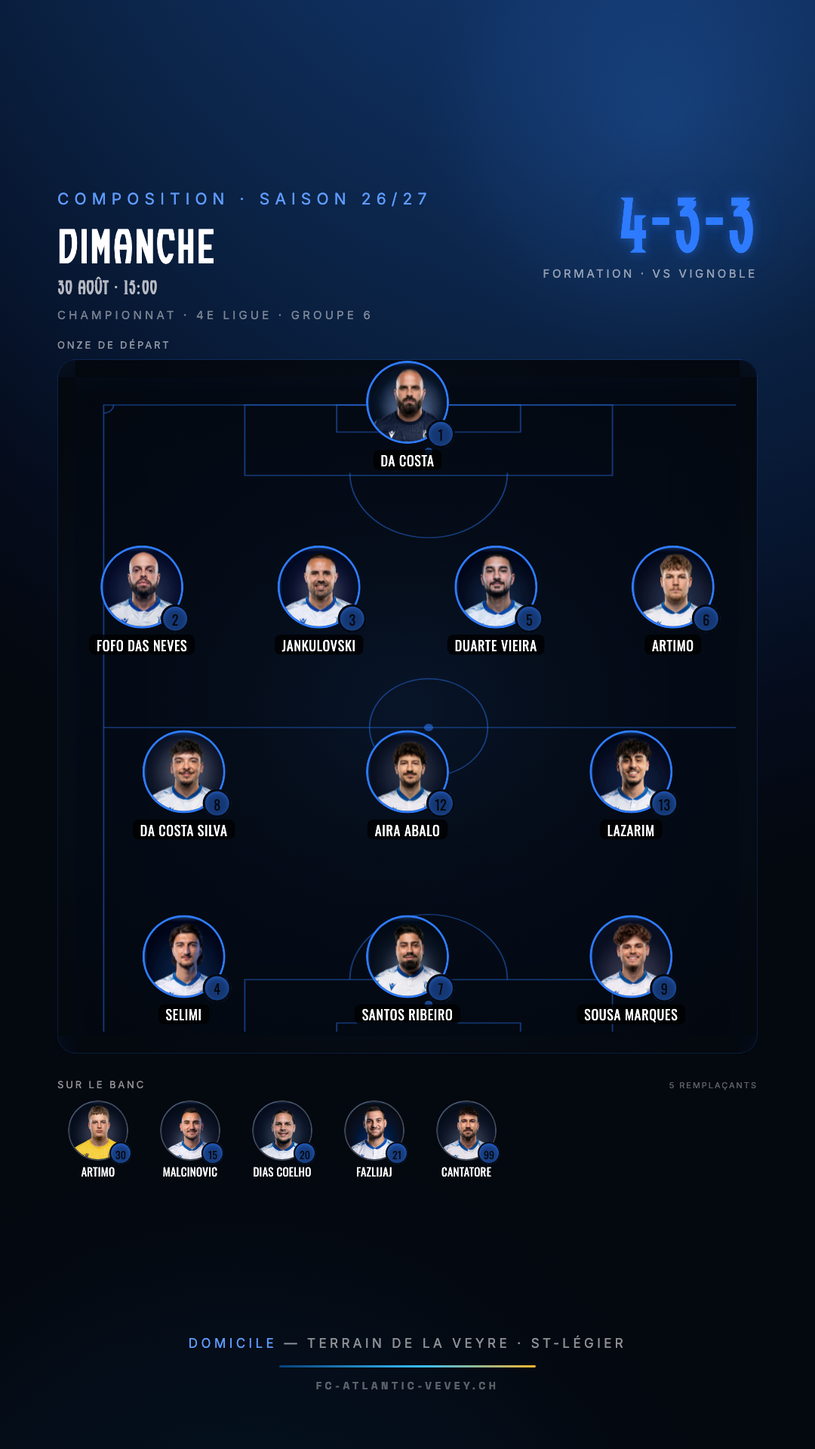
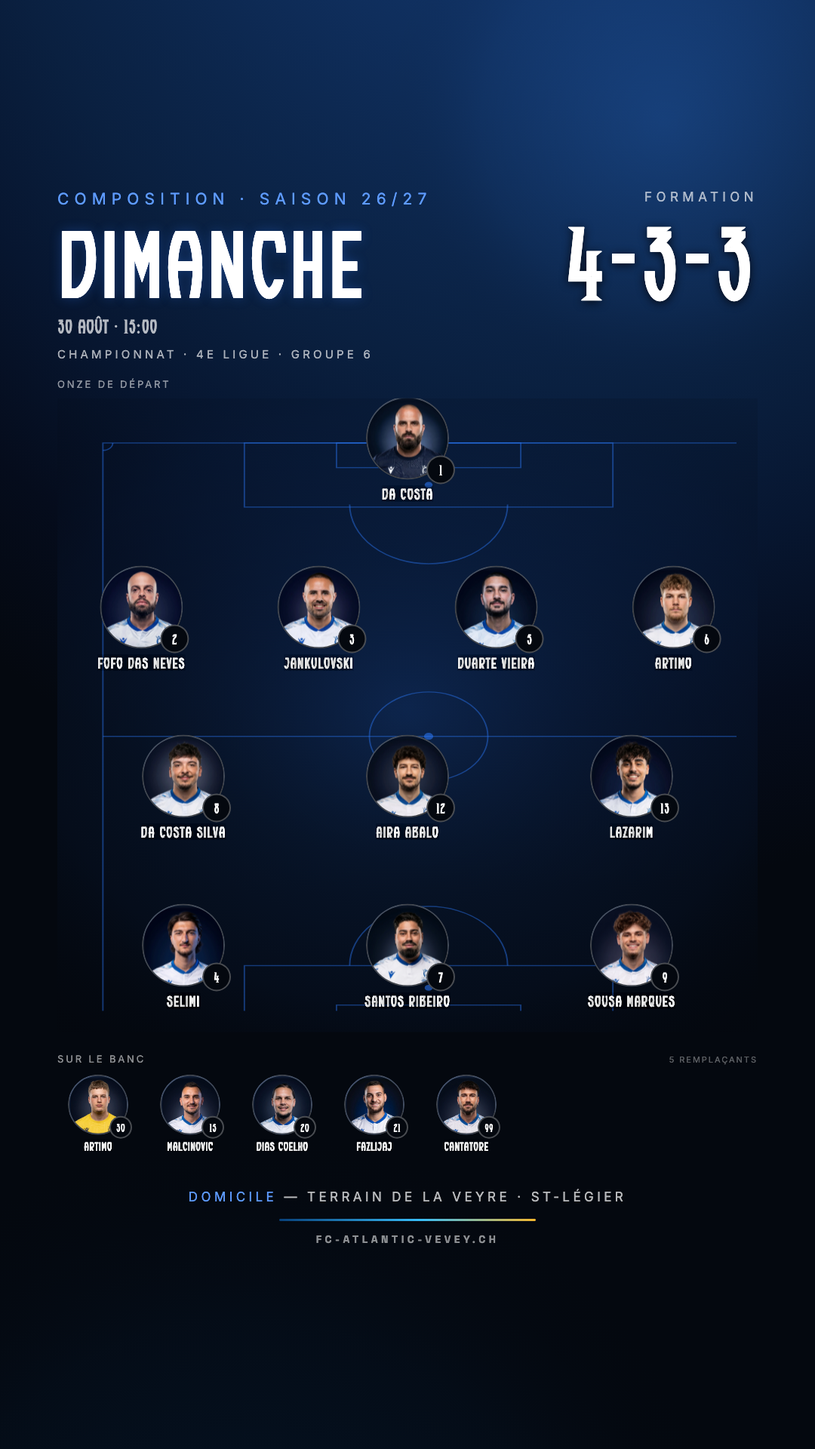
design: corrections du panel DA (4 juges indépendants, 84 défauts → 12 retenus)
Grille verrouillée, contrastes mesurés, safe zones respectées.

- HEADER : FB.colDroite() — micro-label droit sur la MÊME ligne de base que
  le kicker (57px d'écart avant) ; rampe de titre FIXE 156/126px (le même
  mot faisait 121px ici et 47px sur le lineup).
- CONTRASTE : bleu roi #2E7BFF tombait à 3.6:1 sur nuit → FB.royal passe à
  #5E9BFF pour le TEXTE ; ligne compétition .45→.66 ; URL .35→.55 ; rail
  .32→.5 ; venue .55→.72. Mesuré après coup : 7.5 à 12.4:1 partout.
  Les glows de la même teinte que le texte sont supprimés.
- SAFE ZONE : le pied tombait à y1744 (masqué par l'UI Instagram) et sautait
  de 183px selon la variante → ancres fixes, dernier pixel ≤1646 sur les 8.
- OR : la minute était blanche en live et or en mi-temps — même objet, deux
  codes. L'or est rendu à sa réserve (but, parrains, TBD, victoire).
- BUT : header conforme au système (kicker + BUT ! à gauche, minute à
  droite) ; le nom du buteur ne se pose plus sur le col clair.
- LINEUP : la tuile terrain bordée, les pastilles noires des noms et les
  anneaux bleus violaient « zéro chrome » → lignes nues, noms ombrés,
  hairline neutre (or pour le seul capitaine), numéros en flocage.
- ÉCUSSONS : un seul diamètre (92px) pour le même objet.
- EXPORT : le lineq est toujours rendu en 9:16 — son fichier ne se nomme
  plus « post » (il aurait menti sur son format).

diff --git a/index.html b/index.html
@@ -1354,7 +1354,10 @@
      Briques UNIQUES partagées par toutes les variantes photo-led. Grille
      story 1080×1920 fixe ; en post 4:5 le shell scale le canvas virtuel. */
   const FB = {
-    royal: '#2E7BFF',
+    /* Bleu roi du maillot : garde-corps de marque. Sur fond nuit il tombe à
+       3.6:1 → pour du TEXTE on utilise sa version claire (≈6:1). */
+    royal: '#5E9BFF',
+    royalDeep: '#2E7BFF',
     /* Largeur du canvas de composition : 1080 en story, plus large en post
        (canvas virtuel scalé). Posée par shellWrap avant chaque rendu. */
     vw: 1080,
@@ -1383,17 +1386,28 @@
     kicker(txt, y = 238) {
       return `<div style="position:absolute; left:72px; top:${y}px; font-family:'Inter', sans-serif; font-weight:700; font-size:21px; letter-spacing:0.34em; text-transform:uppercase; color:#5E9BFF;">${txt}</div>`;
     },
-    titre(txt, size = 168, y = 282, color = '#FFFFFF') {
-      return `<div style="position:absolute; left:72px; top:${y}px; font-family:'Portugal2025', 'Oswald', sans-serif; font-size:${size}px; line-height:0.95; letter-spacing:0.015em; text-transform:uppercase; color:${color}; text-shadow:0 0 30px rgba(46,123,255,0.35); white-space:nowrap;">${txt}</div>`;
+    /* Rampe de tailles FIXE : un titre long descend d'un cran, jamais de
+       valeur arbitraire. Ligne de base identique sur les 7 variantes. */
+    titre(txt, size, y = 282, color = '#FFFFFF') {
+      const auto = String(txt).replace(/<[^>]*>/g, '').length > 10 ? 126 : 156;
+      return `<div style="position:absolute; left:72px; top:${y}px; font-family:'Portugal2025', 'Oswald', sans-serif; font-size:${size || auto}px; line-height:0.95; letter-spacing:0.015em; text-transform:uppercase; color:${color}; text-shadow:0 0 16px rgba(46,123,255,0.28); white-space:nowrap;">${txt}</div>`;
+    },
+    /* Colonne droite du header : micro-label sur la MÊME ligne de base que
+       le kicker gauche (y238), grand chiffre ancré à y286. */
+    colDroite(label, chiffreHtml) {
+      return `<div style="position:absolute; right:72px; top:238px; text-align:right;">
+        <div style="font-family:'Inter', sans-serif; font-weight:700; font-size:17px; letter-spacing:0.32em; text-transform:uppercase; color:rgba(255,255,255,0.66); margin-bottom:16px;">${label}</div>
+        ${chiffreHtml}
+      </div>`;
     },
     sub(txt, y, size = 58) {
       return `<div style="position:absolute; left:74px; top:${y}px; font-family:'Portugal2025', 'Oswald', sans-serif; font-size:${size}px; letter-spacing:0.05em; text-transform:uppercase; color:rgba(255,255,255,0.82);">${txt}</div>`;
     },
     compline(y) {
-      return `<div style="position:absolute; left:75px; top:${y}px; font-family:'Inter', sans-serif; font-weight:600; font-size:16px; letter-spacing:0.3em; text-transform:uppercase; color:rgba(255,255,255,0.45);">${compKicker()} · ${compLabel()}${state.matchNumber ? ` · N° ${state.matchNumber}` : ''}</div>`;
+      return `<div style="position:absolute; left:75px; top:${y}px; font-family:'Inter', sans-serif; font-weight:600; font-size:16px; letter-spacing:0.3em; text-transform:uppercase; color:rgba(255,255,255,0.66);">${compKicker()} · ${compLabel()}${state.matchNumber ? ` · N° ${state.matchNumber}` : ''}</div>`;
     },
     chiffre(txt, size, color) {
-      return `<div style="font-family:'Portugal2025 Outlined', 'Portugal2025', 'Oswald', sans-serif; font-size:${size}px; line-height:0.88; letter-spacing:0.03em; color:${color}; text-shadow:0 0 14px ${color}77, 0 0 46px ${color}33;">${txt}</div>`;
+      return `<div style="font-family:'Portugal2025 Outlined', 'Portugal2025', 'Oswald', sans-serif; font-size:${size}px; line-height:0.88; letter-spacing:0.03em; color:${color}; text-shadow:0 2px 12px rgba(4,8,15,0.9);">${txt}</div>`;
     },
     timeBlock(size = 150) {
       return isTimeTbd()
@@ -1405,7 +1419,7 @@
         : FB.chiffre(state.kickoff.time, size, FB.royal);
     },
     rail() {
-      return `<div style="position:absolute; right:-186px; top:1050px; width:520px; transform:rotate(-90deg); font-family:'Inter', sans-serif; font-weight:700; font-size:22px; letter-spacing:0.4em; text-transform:uppercase; color:rgba(255,255,255,0.32); text-align:center;">#${TENANT_CONFIG.social.matchupTagPrefix}${getOpp().abbr}</div>`;
+      return `<div style="position:absolute; right:-186px; top:1050px; width:520px; transform:rotate(-90deg); font-family:'Inter', sans-serif; font-weight:700; font-size:22px; letter-spacing:0.34em; text-transform:uppercase; color:rgba(255,255,255,0.5); text-align:center;">#${TENANT_CONFIG.social.matchupTagPrefix}${getOpp().abbr}</div>`;
     },
     haloCrest(crestHtml, size) {
       return `<div style="position:relative; width:${size}px; height:${size}px; flex-shrink:0;">
@@ -1458,18 +1472,20 @@
       const isHome = state.homeAway === 'home';
       const vn = (state.venue && state.venue.trim()) || TENANT_CONFIG.venue.defaultHomeDisplayName;
       const vc = (state.venueCity && state.venueCity.trim()) || (isHome ? TENANT_CONFIG.venue.defaultHomeCity : '');
-      return `<div style="position:absolute; left:0; right:0; top:${y}px; text-align:center; font-family:'Inter', sans-serif; font-weight:600; font-size:17px; letter-spacing:0.26em; text-transform:uppercase; color:rgba(255,255,255,0.55);">
+      return `<div style="position:absolute; left:0; right:0; top:${y}px; text-align:center; font-family:'Inter', sans-serif; font-weight:600; font-size:17px; letter-spacing:0.26em; text-transform:uppercase; color:rgba(255,255,255,0.72);">
         <span style="color:${isHome ? '#5E9BFF' : '#F87171'};">${isHome ? 'Domicile' : 'Extérieur'}</span> — ${vn}${vc ? ' · ' + vc : ''}
       </div>`;
     },
     signature(y) {
       return `<div style="position:absolute; left:50%; margin-left:-170px; top:${y}px; width:340px; height:3px; border-radius:2px; background:linear-gradient(90deg, #08417B 0%, #38BDF8 55%, #F5B82E 100%);"></div>
-      <div style="position:absolute; left:0; right:0; top:${y + 18}px; text-align:center; font-family:'Space Grotesk', 'Inter', sans-serif; font-weight:700; font-size:14px; letter-spacing:0.32em; text-transform:uppercase; color:rgba(255,255,255,0.35);">fc-atlantic-vevey.ch</div>`;
+      <div style="position:absolute; left:0; right:0; top:${y + 18}px; text-align:center; font-family:'Space Grotesk', 'Inter', sans-serif; font-weight:700; font-size:14px; letter-spacing:0.32em; text-transform:uppercase; color:rgba(255,255,255,0.55);">fc-atlantic-vevey.ch</div>`;
     },
     /* Pied standard de la grille : parrains éventuels + venue + signature. */
+    /* Instagram masque ~250px en bas : la dernière ligne ne dépasse jamais
+       y1650 (mesure du panel : le pied tombait à y1744). */
     bottom(withSponsors) {
       const has = withSponsors && (state.matchBallSponsors || []).length > 0;
-      return `${has ? FB.sponsors(1548) : ''}${FB.venue(has ? 1660 : 1560)}${FB.signature(has ? 1712 : 1626)}`;
+      return `${has ? FB.sponsors(1436) : ''}${FB.venue(has ? 1556 : 1500)}${FB.signature(has ? 1606 : 1560)}`;
     },
   };
 
@@ -1530,12 +1546,9 @@
         ${FB.titre(state.kickoff.dayName, 168)}
         ${FB.sub(`${state.kickoff.dateLabel} ${state.kickoff.year}`, 462)}
         ${FB.compline(545)}
-        <div style="position:absolute; right:72px; top:296px; text-align:right;">
-          <div style="font-family:'Inter', sans-serif; font-weight:600; font-size:17px; letter-spacing:0.32em; text-transform:uppercase; color:rgba(255,255,255,0.5); margin-bottom:12px;">Coup d'envoi</div>
-          ${FB.timeBlock(150)}
-        </div>
+        ${FB.colDroite("Coup d'envoi", FB.timeBlock(150))}
         ${FB.rail()}
-        ${FB.matchup(1372)}
+        ${FB.matchup(1300)}
         ${FB.bottom(true)}`;
       return { fullBleed: true, html };
     }
@@ -1610,13 +1623,10 @@
         ${FB.titre("COUP D'ENVOI", 126)}
         ${FB.sub('Dans quelques instants', 430, 44)}
         ${FB.compline(502)}
-        <div style="position:absolute; right:72px; top:296px; text-align:right;">
-          <div style="font-family:'Inter', sans-serif; font-weight:600; font-size:17px; letter-spacing:0.32em; text-transform:uppercase; color:rgba(255,255,255,0.5); margin-bottom:12px;">Heure</div>
-          ${FB.timeBlock(150)}
-        </div>
+        ${FB.colDroite('Heure', FB.timeBlock(150))}
         ${FB.rail()}
-        <div style="position:absolute; left:0; right:0; top:1296px; text-align:center; font-family:'Inter', sans-serif; font-weight:600; font-size:17px; letter-spacing:0.26em; text-transform:uppercase; color:rgba(255,255,255,0.55);"><span style="color:${GOLD};">Capitaine</span> — ${capt ? `${captainDisplay} · #${capt.jerseyDisplay}` : ''}</div>
-        ${FB.matchup(1372)}
+        <div style="position:absolute; left:0; right:0; top:1226px; text-align:center; font-family:'Inter', sans-serif; font-weight:600; font-size:17px; letter-spacing:0.26em; text-transform:uppercase; color:rgba(255,255,255,0.72);"><span style="color:#5E9BFF;">Capitaine</span> — ${capt ? `${captainDisplay} · #${capt.jerseyDisplay}` : ''}</div>
+        ${FB.matchup(1300)}
         ${FB.bottom(true)}`;
       return { fullBleed: true, html };
     }
@@ -1684,13 +1694,10 @@
         ${FB.kicker('<span style="display:inline-block; width:14px; height:14px; border-radius:50%; background:#EF4444; margin-right:14px;"></span>Match en cours · Saison 26/27')}
         ${FB.titre('EN DIRECT', 140)}
         ${FB.compline(470)}
-        <div style="position:absolute; right:72px; top:296px; text-align:right;">
-          <div style="font-family:'Inter', sans-serif; font-weight:600; font-size:16px; letter-spacing:0.3em; text-transform:uppercase; color:rgba(255,255,255,0.45); margin-bottom:12px;">Minute</div>
-          ${FB.chiffre(state.minute + "'", 140, '#FFFFFF')}
-        </div>
+        ${FB.colDroite('Minute', FB.chiffre(state.minute + "'", 140, '#FFFFFF'))}
         ${FB.rail()}
-        ${FB.scoreRow(1300, 172, 104)}
-        <div style="position:absolute; left:0; right:0; top:1496px; text-align:center; font-family:'Inter', sans-serif; font-weight:600; font-size:19px; letter-spacing:0.28em; text-transform:uppercase; color:rgba(255,255,255,0.6);">${stateMsg}</div>
+        ${FB.scoreRow(1240, 180, 104)}
+        <div style="position:absolute; left:0; right:0; top:1436px; text-align:center; font-family:'Inter', sans-serif; font-weight:600; font-size:19px; letter-spacing:0.28em; text-transform:uppercase; color:rgba(255,255,255,0.75);">${stateMsg}</div>
         ${FB.bottom(false)}`;
       return { fullBleed: true, html };
     }
@@ -1757,15 +1764,13 @@
         ${FB.bg()}
         ${FB.photo(photo)}
         ${FB.scrim(1000)}
-        <div style="position:absolute; left:72px; top:246px; font-family:'Inter', sans-serif; font-weight:600; font-size:18px; letter-spacing:0.3em; text-transform:uppercase; color:rgba(255,255,255,0.5);">${compKicker()} · ${compLabel()}</div>
-        <div style="position:absolute; right:72px; top:262px; text-align:right;">
-          <div style="font-family:'Inter', sans-serif; font-weight:600; font-size:16px; letter-spacing:0.3em; text-transform:uppercase; color:rgba(255,255,255,0.45); margin-bottom:12px;">Minute</div>
-          ${FB.chiffre(goalMinute + "'", 132, GOLD)}
-        </div>
-        ${FB.scoreRow(376, 92, 76)}
+        ${FB.kicker('But · Saison 26/27')}
+        ${FB.titre('BUT<span style="padding-left:26px;">!</span>', 156, 282, GOLD)}
+        ${FB.colDroite('Minute', FB.chiffre(goalMinute + "'", 140, GOLD))}
+        ${FB.compline(470)}
         ${FB.rail()}
-        <div style="position:absolute; left:0; right:0; top:1168px; text-align:center; font-family:'Portugal2025', 'Oswald', sans-serif; font-size:196px; line-height:0.95; letter-spacing:0.04em; color:${GOLD}; text-shadow:0 0 50px rgba(245,184,46,0.7), 0 0 20px rgba(255,255,255,0.2);">BUT<span style="padding-left:22px;">!</span></div>
-        <div style="position:absolute; left:0; right:0; top:1392px; text-align:center; ${dispFontCss(sc.firstName + sc.lastName)} font-size:54px; line-height:1.1; letter-spacing:0.05em; text-transform:uppercase; color:#fff; text-shadow:0 2px 18px rgba(4,8,15,0.9);">${sc.firstName} ${sc.lastName}</div>
+        <div style="position:absolute; left:0; right:0; top:1210px; text-align:center; ${dispFontCss(sc.firstName + sc.lastName)} font-size:62px; line-height:1.1; letter-spacing:0.05em; text-transform:uppercase; color:#fff; text-shadow:0 2px 18px rgba(4,8,15,0.95);">${sc.firstName} ${sc.lastName}</div>
+        ${FB.scoreRow(1330, 150, 92)}
         ${FB.bottom(false)}`;
       return { fullBleed: true, html };
     }
@@ -1822,13 +1827,10 @@
         ${FB.kicker('Match en cours · Saison 26/27')}
         ${FB.titre('MI-TEMPS', 150)}
         ${FB.compline(470)}
-        <div style="position:absolute; right:72px; top:296px; text-align:right;">
-          <div style="font-family:'Inter', sans-serif; font-weight:600; font-size:16px; letter-spacing:0.3em; text-transform:uppercase; color:rgba(255,255,255,0.45); margin-bottom:12px;">Minute</div>
-          ${FB.chiffre("45'", 140, '#F5B82E')}
-        </div>
+        ${FB.colDroite('Minute', FB.chiffre("45'", 140, '#FFFFFF'))}
         ${FB.rail()}
-        ${FB.scoreRow(1300, 172, 104)}
-        <div style="position:absolute; left:0; right:0; top:1496px; text-align:center; font-family:'Inter', sans-serif; font-weight:600; font-size:19px; letter-spacing:0.28em; text-transform:uppercase; color:rgba(255,255,255,0.6);">45 minutes encore à jouer</div>
+        ${FB.scoreRow(1240, 180, 104)}
+        <div style="position:absolute; left:0; right:0; top:1436px; text-align:center; font-family:'Inter', sans-serif; font-weight:600; font-size:19px; letter-spacing:0.28em; text-transform:uppercase; color:rgba(255,255,255,0.75);">45 minutes encore à jouer</div>
         ${FB.bottom(false)}`;
       return { fullBleed: true, html };
     }
@@ -1884,19 +1886,14 @@
         ${FB.kicker('Résultat final · Saison 26/27')}
         ${FB.titre(resultWord, 150, 282, resultCol)}
         ${FB.compline(470)}
-        <div style="position:absolute; right:72px; top:296px; text-align:right;">
-          <div style="font-family:'Inter', sans-serif; font-weight:600; font-size:16px; letter-spacing:0.3em; text-transform:uppercase; color:rgba(255,255,255,0.45); margin-bottom:12px;">Score final</div>
-          ${FB.chiffre(`${state.homeAway === 'away' ? state.score.away : state.score.home}<span style="opacity:0.55;"> – </span>${state.homeAway === 'away' ? state.score.home : state.score.away}`, 140, '#FFFFFF')}
-        </div>
+        ${FB.colDroite('Score final', FB.chiffre(`${state.homeAway === 'away' ? state.score.away : state.score.home}<span style="opacity:0.55;"> – </span>${state.homeAway === 'away' ? state.score.home : state.score.away}`, 140, '#FFFFFF'))}
         ${FB.rail()}
-        ${FB.matchup(1284)}
-        ${fcaGoals.length ? `<div style="position:absolute; left:0; right:0; top:1396px; text-align:center;">
+        ${FB.matchup(1214)}
+        ${fcaGoals.length ? `<div style="position:absolute; left:0; right:0; top:1318px; text-align:center;">
           <div style="font-family:'Inter', sans-serif; font-weight:700; font-size:15px; letter-spacing:0.32em; text-transform:uppercase; color:${GOLD};">Buteur${fcaGoals.length > 1 ? 's' : ''}</div>
           ${buteurRows}
         </div>` : ''}
-        ${FB.bottom(true) ? '' : ''}${(state.matchBallSponsors || []).length ? FB.sponsors(1556) : ''}
-        ${FB.venue(1660)}
-        ${FB.signature(1712)}`;
+        ${FB.bottom(true)}`;
       return { fullBleed: true, html };
     }
     return `
@@ -1945,13 +1942,13 @@
       return `
         <div style="position:absolute; left:${xPct}%; top:${yPct}%; transform:translate(-50%, -50%); display:flex; flex-direction:column; align-items:center; gap:8px; width:150px; pointer-events:none;">
           <div style="position:relative; width:110px; height:110px;">
-            <div style="position:absolute; inset:0; border-radius:50%; overflow:hidden; background:linear-gradient(135deg, #1a3058, #04080F); border:3px solid ${v.accent}; box-shadow:0 6px 16px rgba(0,0,0,0.55), 0 0 18px rgba(46,123,255,0.35); box-sizing:border-box;">
+            <div style="position:absolute; inset:0; border-radius:50%; overflow:hidden; background:linear-gradient(135deg, #12233f, #04080F); border:2px solid ${isCaptain ? GOLD : 'rgba(255,255,255,0.24)'}; box-shadow:0 6px 16px rgba(0,0,0,0.55); box-sizing:border-box;">
               ${photoNode(p, 110, 110, 36, 'center top')}
             </div>
-            <div style="position:absolute; bottom:-6px; right:-8px; width:38px; height:38px; border-radius:50%; background:${v.accent}; color:#04080F; display:flex; align-items:center; justify-content:center; font-family:'Oswald', sans-serif; font-weight:700; font-size:18px; border:3px solid #04080F; box-shadow:0 2px 8px rgba(0,0,0,0.55); z-index:3;">${p.jerseyDisplay}</div>
-            ${isCaptain ? `<div style="position:absolute; top:-6px; left:-8px; width:32px; height:32px; border-radius:50%; background:#F5B82E; color:#04080F; display:flex; align-items:center; justify-content:center; font-family:'Oswald', sans-serif; font-weight:700; font-size:16px; border:3px solid #04080F; box-shadow:0 2px 8px rgba(0,0,0,0.55); z-index:3;">C</div>` : ''}
+            <div style="position:absolute; bottom:-6px; right:-8px; width:38px; height:38px; border-radius:50%; background:#04080F; color:#fff; display:flex; align-items:center; justify-content:center; font-family:'Portugal2025', 'Oswald', sans-serif; font-size:19px; border:2px solid rgba(255,255,255,0.28); z-index:3;">${p.jerseyDisplay}</div>
+            ${isCaptain ? `<div style="position:absolute; top:-6px; left:-8px; width:32px; height:32px; border-radius:50%; background:#04080F; color:${GOLD}; display:flex; align-items:center; justify-content:center; font-family:'Portugal2025', 'Oswald', sans-serif; font-size:17px; border:2px solid ${GOLD}; z-index:3;">C</div>` : ''}
           </div>
-          <div style="background:rgba(0,0,0,0.78); padding:4px 10px; border-radius:8px; font-family:'Oswald', sans-serif; font-weight:700; font-size:18px; text-transform:uppercase; color:#fff; letter-spacing:0.04em; white-space:nowrap; max-width:160px; overflow:hidden; text-overflow:ellipsis; line-height:1.05;">${p.lastName}</div>
+          <div style="${dispFontCss(p.lastName)} font-size:20px; text-transform:uppercase; color:#fff; letter-spacing:0.04em; white-space:nowrap; max-width:170px; overflow:hidden; text-overflow:ellipsis; line-height:1.05; text-shadow:0 2px 10px rgba(0,0,0,0.85), 0 0 22px rgba(0,0,0,0.7);">${p.lastName}</div>
         </div>
       `;
     }
@@ -1976,10 +1973,10 @@
             <div style="position:absolute; inset:0; border-radius:50%; overflow:hidden; background:linear-gradient(135deg, #1a3058, #04080F); border:2px solid rgba(255,255,255,0.22); box-shadow:0 4px 10px rgba(0,0,0,0.4); box-sizing:border-box;">
               ${photoNode(p, 80, 80, 26, 'center top')}
             </div>
-            <div style="position:absolute; bottom:-5px; right:-5px; width:30px; height:30px; border-radius:50%; background:${v.accent}; color:#04080F; display:flex; align-items:center; justify-content:center; font-family:'Oswald', sans-serif; font-weight:700; font-size:14px; border:2px solid #04080F; box-shadow:0 2px 6px rgba(0,0,0,0.5); z-index:3;">${p.jerseyDisplay}</div>
+            <div style="position:absolute; bottom:-5px; right:-5px; width:30px; height:30px; border-radius:50%; background:#04080F; color:#fff; display:flex; align-items:center; justify-content:center; font-family:'Portugal2025', 'Oswald', sans-serif; font-size:15px; border:2px solid rgba(255,255,255,0.28); z-index:3;">${p.jerseyDisplay}</div>
             ${isCaptain ? `<div style="position:absolute; top:-5px; left:-5px; width:24px; height:24px; border-radius:50%; background:#F5B82E; color:#04080F; display:flex; align-items:center; justify-content:center; font-family:'Oswald', sans-serif; font-weight:700; font-size:12px; border:2px solid #04080F; box-shadow:0 2px 6px rgba(0,0,0,0.5); z-index:3;">C</div>` : ''}
           </div>
-          <div style="font-family:'Oswald', sans-serif; font-weight:600; font-size:15px; text-transform:uppercase; color:#fff; letter-spacing:0.02em; line-height:1; max-width:108px; overflow:hidden; text-overflow:ellipsis; white-space:nowrap;">${p.lastName}</div>
+          <div style="${dispFontCss(p.lastName)} font-size:16px; text-transform:uppercase; color:#fff; letter-spacing:0.02em; line-height:1; max-width:112px; overflow:hidden; text-overflow:ellipsis; white-space:nowrap; text-shadow:0 2px 8px rgba(0,0,0,0.8);">${p.lastName}</div>
         </div>
       `;
     }
@@ -1989,20 +1986,20 @@
       <div style="position:relative; z-index:1; display:flex; justify-content:space-between; align-items:flex-start;">
         <div>
           <div style="font-family:'Inter', sans-serif; font-weight:700; font-size:21px; letter-spacing:0.34em; text-transform:uppercase; color:#5E9BFF;">Composition · Saison 26/27</div>
-          <div style="font-family:'Portugal2025', 'Oswald', sans-serif; font-size:64px; letter-spacing:0.02em; text-transform:uppercase; color:#fff; margin-top:18px; line-height:1;">${state.kickoff.dayName}</div>
+          <div style="font-family:'Portugal2025', 'Oswald', sans-serif; font-size:126px; letter-spacing:0.015em; text-transform:uppercase; color:#fff; margin-top:14px; line-height:0.95; text-shadow:0 0 16px rgba(46,123,255,0.28);">${state.kickoff.dayName}</div>
           <div style="${dispFontCss(isTimeTbd() ? 'À' : state.kickoff.dateLabel)} font-size:26px; color:rgba(255,255,255,0.7); margin-top:10px; line-height:1;">${state.kickoff.dateLabel} · ${isTimeTbd() ? 'HEURE À CONFIRMER' : state.kickoff.time}</div>
-          <div style="font-family:'Inter', sans-serif; font-weight:600; font-size:15px; letter-spacing:0.28em; text-transform:uppercase; color:rgba(255,255,255,0.45); margin-top:14px;">${compKicker()} · ${compLabel()}</div>
+          <div style="font-family:'Inter', sans-serif; font-weight:600; font-size:15px; letter-spacing:0.28em; text-transform:uppercase; color:rgba(255,255,255,0.66); margin-top:14px;">${compKicker()} · ${compLabel()}</div>
         </div>
         <div style="text-align:right;">
-          <div style="font-family:'Portugal2025 Outlined', 'Portugal2025', 'Oswald', sans-serif; font-size:104px; line-height:0.9; color:${FB.royal}; text-shadow:0 0 14px ${FB.royal}77, 0 0 46px ${FB.royal}33; letter-spacing:0.02em;">${state.formation}</div>
-          <div style="font-family:'Inter', sans-serif; font-size:15px; letter-spacing:0.24em; text-transform:uppercase; color:rgba(255,255,255,0.55); margin-top:8px; font-weight:600;">Formation · vs ${opp.shortName}</div>
+          <div style="font-family:'Inter', sans-serif; font-weight:700; font-size:17px; letter-spacing:0.32em; text-transform:uppercase; color:rgba(255,255,255,0.66); margin-bottom:16px;">Formation</div>
+          <div style="font-family:'Portugal2025 Outlined', 'Portugal2025', 'Oswald', sans-serif; font-size:140px; line-height:0.88; color:#FFFFFF; text-shadow:0 2px 12px rgba(4,8,15,0.9); letter-spacing:0.03em;">${state.formation}</div>
         </div>
       </div>
 
       <!-- TACTICAL BOARD (style FCA site: dark navy + thin blue lines, no green pitch) -->
       <div style="position:relative; z-index:1; margin-top:22px; flex-shrink:0;">
         <div style="font-family:'Inter', sans-serif; font-weight:600; font-size:13px; letter-spacing:0.22em; text-transform:uppercase; color:rgba(255,255,255,0.55); margin-bottom:12px;">Onze de départ</div>
-        <div style="position:relative; width:100%; height:920px; background:radial-gradient(ellipse 90% 80% at 50% 50%, #0A1628 0%, #04080F 75%); border-radius:24px; overflow:hidden; box-shadow:0 16px 40px rgba(0,0,0,0.5), inset 0 0 80px rgba(46,123,255,0.08); border:1px solid rgba(46,123,255,0.18);">
+        <div style="position:relative; width:100%; height:840px; background:radial-gradient(ellipse 92% 82% at 50% 48%, rgba(16,48,97,0.55) 0%, rgba(7,22,48,0.35) 58%, transparent 88%); overflow:hidden;">
           <!-- Tactical lines (thin accent-blue, no fill) -->
           <svg viewBox="0 0 100 120" preserveAspectRatio="none" style="position:absolute; inset:28px; width:calc(100% - 56px); height:calc(100% - 56px); stroke:rgba(46,123,255,0.42); fill:none; stroke-width:0.22; pointer-events:none;">
             <rect x="0.5" y="0.5" width="99" height="119"/>
@@ -2033,7 +2030,7 @@
       </div>
 
       <!-- BENCH (masqué si vide — pas de section fantôme) -->
-      ${bench.length ? `<div style="margin-top:32px; position:relative; z-index:1; flex-shrink:0;">
+      ${bench.length ? `<div style="margin-top:26px; position:relative; z-index:1; flex-shrink:0;">
         <div style="display:flex; justify-content:space-between; align-items:baseline; margin-bottom:14px;">
           <div style="font-family:'Inter', sans-serif; font-weight:600; font-size:13px; letter-spacing:0.22em; text-transform:uppercase; color:rgba(255,255,255,0.55);">Sur le banc</div>
           <div style="font-family:'Inter', sans-serif; font-weight:600; font-size:11px; letter-spacing:0.18em; text-transform:uppercase; color:rgba(255,255,255,0.35);">${bench.length} remplaçant${bench.length>1?'s':''}</div>
@@ -2046,12 +2043,12 @@
       ${customMessageBlock('')}
 
       <!-- Pied système naked (venue centrée + signature) -->
-      <div style="margin-top:auto; position:relative; z-index:1; text-align:center; padding-bottom:6px;">
-        <div style="font-family:'Inter', sans-serif; font-weight:600; font-size:17px; letter-spacing:0.26em; text-transform:uppercase; color:rgba(255,255,255,0.55);">
+      <div style="margin-top:auto; position:relative; z-index:1; text-align:center; padding-bottom:200px;">
+        <div style="font-family:'Inter', sans-serif; font-weight:600; font-size:17px; letter-spacing:0.26em; text-transform:uppercase; color:rgba(255,255,255,0.72);">
           <span style="color:${state.homeAway === 'home' ? '#5E9BFF' : '#F87171'};">${state.homeAway === 'home' ? 'Domicile' : 'Extérieur'}</span> — ${(state.venue && state.venue.trim()) || TENANT_CONFIG.venue.defaultHomeDisplayName}${((state.venueCity && state.venueCity.trim()) || (state.homeAway === 'home' ? TENANT_CONFIG.venue.defaultHomeCity : '')) ? ' · ' + ((state.venueCity && state.venueCity.trim()) || TENANT_CONFIG.venue.defaultHomeCity) : ''}
         </div>
         <div style="width:340px; height:3px; border-radius:2px; background:linear-gradient(90deg, #08417B 0%, #38BDF8 55%, #F5B82E 100%); margin:20px auto 0;"></div>
-        <div style="font-family:'Space Grotesk', 'Inter', sans-serif; font-weight:700; font-size:14px; letter-spacing:0.32em; text-transform:uppercase; color:rgba(255,255,255,0.35); margin-top:14px;">fc-atlantic-vevey.ch</div>
+        <div style="font-family:'Space Grotesk', 'Inter', sans-serif; font-weight:700; font-size:14px; letter-spacing:0.32em; text-transform:uppercase; color:rgba(255,255,255,0.55); margin-top:14px;">fc-atlantic-vevey.ch</div>
       </div>
     `;
   }
@@ -3120,7 +3117,10 @@
   function posterFileName() {
     const date = (state.kickoff.dateLabel || '').replace(/\s+/g, '-').toLowerCase();
     const prefix = (TENANT_CONFIG.club.abbr || 'POSTER').toUpperCase();
-    return `${prefix}_${state.variant}_${date}_${state.format}.png`;
+    /* Le lineup est TOUJOURS rendu en 9:16 (trop dense en 4:5) : on ne le
+       nomme jamais « post », sinon le fichier ment sur son format. */
+    const fmtName = state.variant === 'lineup' ? 'story' : state.format;
+    return `${prefix}_${state.variant}_${date}_${fmtName}.png`;
   }
 
   async function downloadPoster() {

diff --git a/DESIGN-SYSTEM-2627.md b/DESIGN-SYSTEM-2627.md
@@ -72,6 +72,27 @@ Post 4:5 : MÊME composition dans un canvas virtuel scalé (ancres left/right).
 | **recap** | RÉSULTAT FINAL / mot résultat (or/blanc/rouge) | score Outlined | buteurs (minutes or) · parrains · venue | dernier buteur FCA, sinon rotation |
 | **lineup** | COMPOSITION / jour+date | formation Outlined | terrain tactique (pas de photo héros) · banc · venue | — |
 
+## 5bis. Grille verrouillée (audit panel DA, 11.08)
+
+Ces valeurs ne sont PAS des suggestions — un panel de 4 DA indépendants a
+mesuré les dérives qu'elles corrigent.
+
+| Élément | Ancre | Règle |
+|---|---|---|
+| Kicker gauche | y238 | bleu `#5E9BFF`, Inter 700, 21px, .34em |
+| Titre display | y282 | rampe FIXE : 156px, ou 126px si > 10 caractères. Jamais d'autre valeur |
+| Colonne droite | y238 (label) | `FB.colDroite(label, chiffre)` — micro-label sur la MÊME ligne de base que le kicker |
+| Ligne compétition | y470-545 | opacité .66 minimum (mesuré 4.4:1 avant, ≥7:1 après) |
+| Info stack | grandit vers le HAUT | dernier pixel de contenu ≤ **y1650** (Instagram masque les 250 derniers px) |
+| Écusson | 92px | UN seul diamètre pour le même objet, halo sombre derrière (le blanc se perd sur le maillot clair) |
+
+**Contrastes plancher** (mesurés sur l'export, pas estimés) : texte courant ≥ 7:1,
+micro-label ≥ 4.5:1. Le bleu roi `#2E7BFF` tombe à 3.6:1 sur nuit → pour du TEXTE
+on utilise `FB.royal` = `#5E9BFF`. Jamais de glow de la même teinte que le texte.
+
+**Réserve de l'or** : BUT, minute du but, parrains ballon, étoiles TBD, VICTOIRE,
+brassard capitaine. La minute d'un match en cours (live, mi-temps) est BLANCHE.
+
 ## 6. Lois non négociables
 
 - **Zéro chrome** : pas de cadre, pas de pastille décorative, pas de tuile bordée.
